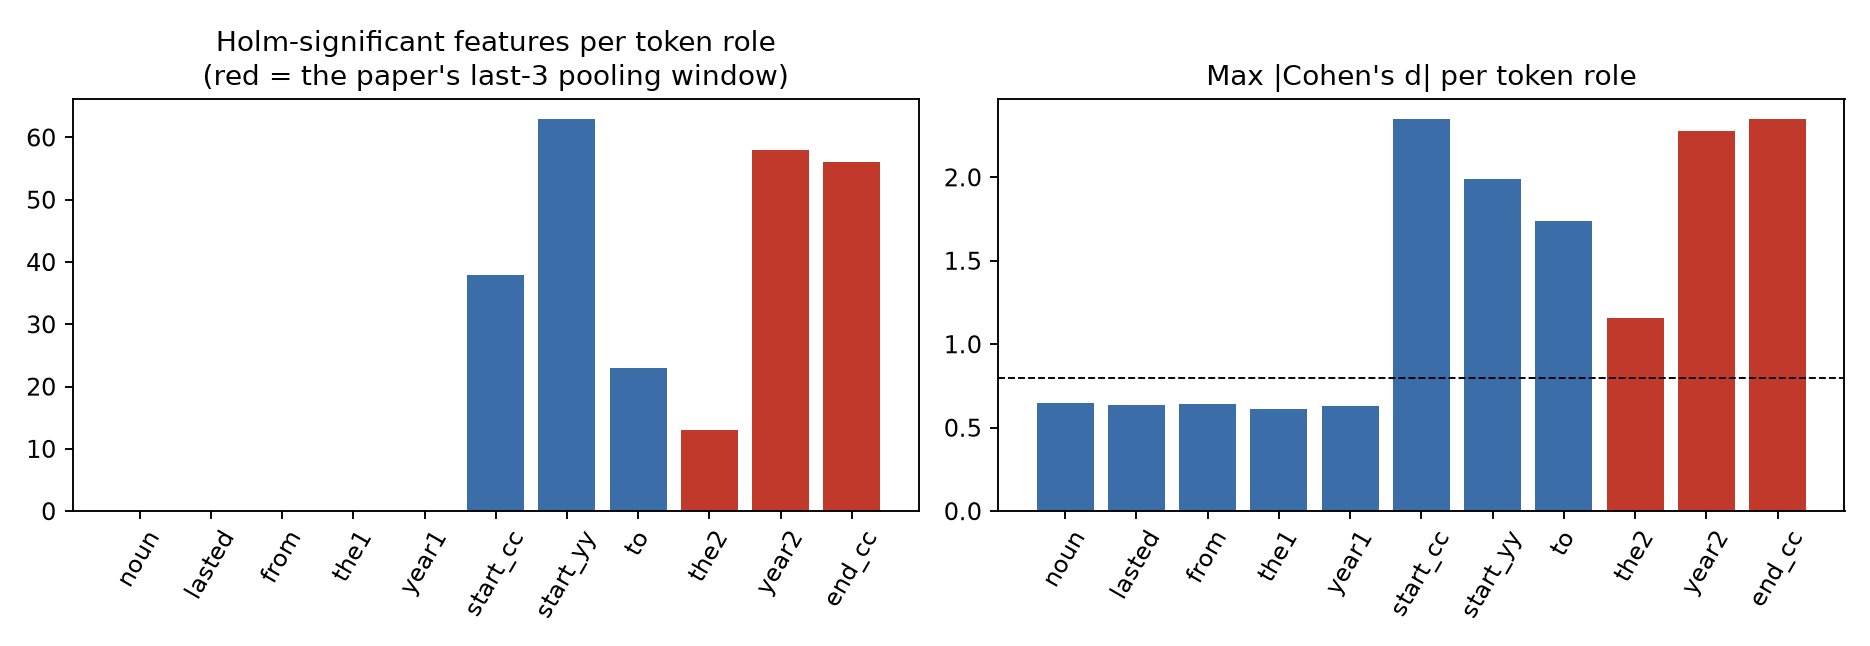
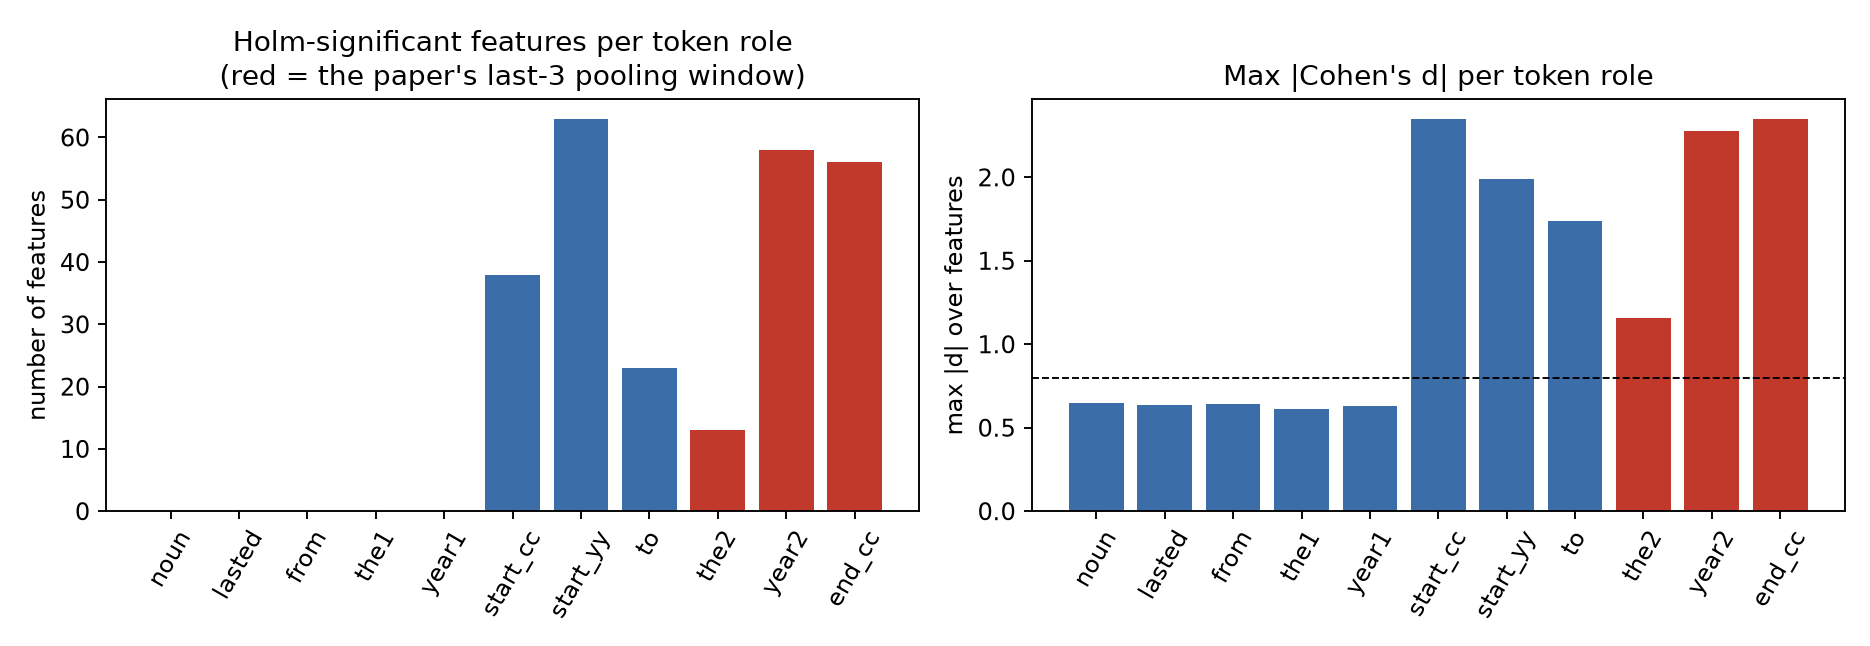
Fix dose response figure (century 12 curve), fig4/fig5 titles, error bars

diff --git a/greaterthan/make_figures.py b/greaterthan/make_figures.py
@@ -47,6 +47,7 @@ def fig1_roles(gt, out):
     ax[1].bar(ROLE_ORDER, a.max_abs_d, color=cols)
     ax[1].axhline(0.8, color="k", ls="--", lw=0.8)
     ax[1].set_title("Max |Cohen's d| per token role")
+    ax[0].set_ylabel("number of features"); ax[1].set_ylabel("max |d| over features")
     for x in ax:
         x.tick_params(axis="x", rotation=60)
     fig.tight_layout(); fig.savefig(out / "fig1_gt_position_signal.png", dpi=170); plt.close(fig)
@@ -73,14 +74,21 @@ def fig2_gt_causal(gt, out):
     # (b) dose-response
     if inj is not None:
         scales = [float(c.split("_s")[1]) for c in inj.columns if c.startswith("fail_s")]
-        for name, m, col in [("other centuries (injection)", inj.century != 12, RED), ("century 12 (s<1 = partial ablation)", inj.century == 12, BLUE)]:
-            d = inj[m]
-            ys = [100 * d.fail_base.mean()] + [100 * d[f"fail_s{s}"].mean() for s in scales]
-            ax[1].plot([0] + scales, ys, "o-", color=col, label=name)
-        rr = 100 * rd_mean(inj[inj.century != 12], "fail_rd")
+        o = inj[inj.century != 12]
+        ys = [100 * o.fail_base.mean()] + [100 * o[f"fail_s{s}"].mean() for s in scales]
+        ax[1].plot([0] + scales, ys, "o-", color=RED, label="other centuries (feature injected from ~0)")
+        c = inj[inj.century == 12]
+        xs, ys = [], []
+        if ab is not None:
+            xs.append(0.0); ys.append(100 * ab[ab.century == 12].fail_abl.mean())   # full ablation = level 0
+        xs += scales; ys += [100 * c[f"fail_s{s}"].mean() for s in scales]
+        ax[1].plot(xs, ys, "o-", color=BLUE, label="century 12 (feature lowered from its natural level)")
+        ax[1].scatter([1.0], [100 * c.fail_base.mean()], marker="s", s=90, facecolors="none", edgecolors=BLUE, zorder=5,
+                      label="century 12, natural level (baseline)")
+        rr = 100 * rd_mean(o, "fail_rd")
         ax[1].scatter([1.0], [rr], marker="D", color="k", zorder=5, label="random dir., same norm (other centuries)")
-        ax[1].set_xlabel("feature level (x its century-12 activation)"); ax[1].set_ylabel("failure rate (%)")
-        ax[1].set_title("(b) Dose-response of 23414 at the final token"); ax[1].legend(fontsize=8)
+        ax[1].set_xlabel("feature level (x its century-12 activation at the final token)"); ax[1].set_ylabel("failure rate (%)")
+        ax[1].set_title("(b) Dose-response of 23414 at the final token"); ax[1].legend(fontsize=7, loc="upper left")
     # (c) prob_diff by century under ablation
     if ab is not None:
         g = ab.groupby("century")[["pd_base", "pd_abl"]].mean()
@@ -144,7 +152,9 @@ def fig4_auc(gt, out):
     cols = [BLUE if p.startswith(("century", "metadata")) else (GREEN if p.startswith("raw") else RED) for p in df.predictor]
     ax.barh(df.predictor, df.AUC, xerr=df.sd, color=cols)
     ax.set_xlim(0.5, 1.0); ax.set_xlabel("cross-validated ROC AUC (failure)")
-    ax.set_title("Prompt variables alone vs. raw residual vs. SAE features (Greater-Than)")
+    ax.set_title("Greater-Than: prompt variables vs. raw residual vs. SAE features\n(mean of last 3 tokens; error bars = SD over CV folds)", fontsize=10)
+    from matplotlib.patches import Patch
+    ax.legend(handles=[Patch(color=BLUE, label="prompt variables only"), Patch(color=GREEN, label="raw residual (768-d)"), Patch(color=RED, label="SAE top-K features")], fontsize=8, loc="lower left")
     fig.tight_layout(); fig.savefig(out / "fig4_auc_baselines.png", dpi=170); plt.close(fig)
 
 
@@ -157,10 +167,10 @@ def fig5_perm(gt, out):
     x = np.arange(len(a))
     fig, ax = plt.subplots(figsize=(9, 4))
     ax.bar(x - 0.2, a["obs_n_|d|>.8"], 0.4, color=RED, label="observed")
-    ax.bar(x + 0.2, a["strat_null_n_mean"], 0.4, color=GREY, yerr=a["strat_null_n_95"] - a["strat_null_n_mean"], label="null: labels shuffled within century x start-year (mean, 95th pct)")
+    ax.bar(x + 0.2, a["strat_null_n_mean"], 0.4, color=GREY, yerr=[np.zeros(len(a)), (a["strat_null_n_95"] - a["strat_null_n_mean"]).values], label="null: labels shuffled within century x start-year (mean; bar = 95th percentile)")
     ax.set_xticks(x); ax.set_xticklabels(a.index, rotation=30)
     ax.set_ylabel("features with |d| > 0.8")
-    ax.set_title("Most large-effect features are explained by the known confounds alone"); ax.legend(fontsize=8)
+    ax.set_title("Most, but not all, large-effect features are expected from the known confounds alone", fontsize=10); ax.legend(fontsize=8)
     fig.tight_layout(); fig.savefig(out / "fig5_permutation_null.png", dpi=170); plt.close(fig)
 
 
